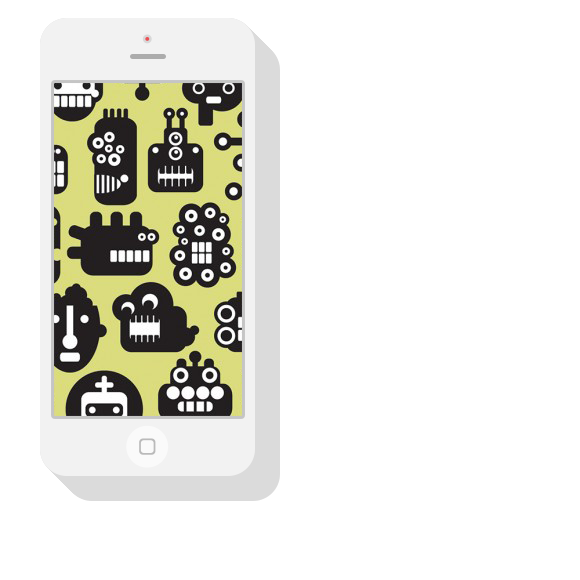
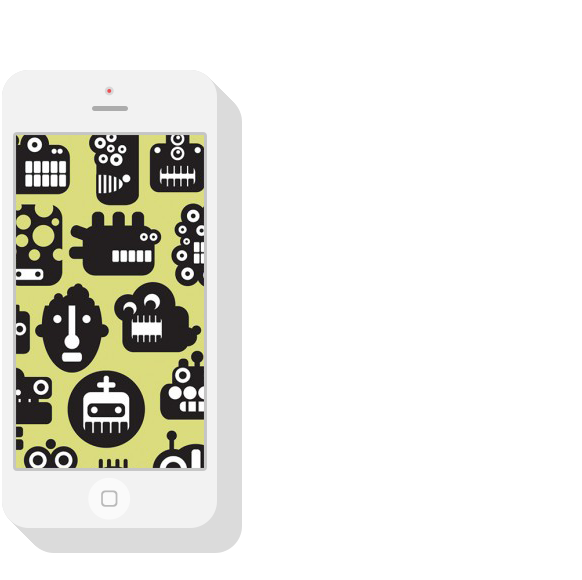
feat:add slider section

Changed region(s): [[0.0, 0.0621, 0.4966, 0.9621]]

diff --git a/index.html b/index.html
@@ -25,17 +25,15 @@
     </header>
     <section class="slider">
       <div class="wrapper">
-        <div class="phones">
-          <div class="phones-vertical">
-            <img src="./assets/images/iPhone Vertical.png" alt="" />
-          </div>
-          <div class="phones-horizontal">
-            <img src="./assets/images/iPhone Horizontal.png" alt="" />
-          </div>
-        </div>
         <div class="slider__button-left">
           <img src="./assets/images/arrow_left.png" alt="" />
         </div>
+          <div class="phone-vertical">
+            <img src="./assets/images/iPhone Vertical.png" alt="" />
+          </div>
+          <div class="phone-horizontal">
+            <img src="./assets/images/iPhone Horizontal.png" alt="" />
+          </div>
         <div class="slider__button-right">
           <img src="./assets/images/arrow_right.png" alt="" />
         </div>

diff --git a/style.css b/style.css
@@ -79,3 +79,40 @@
   text-transform: uppercase;
   height: 100%;
 }
+
+.slider {
+  background-color: #f06c64;
+  border-bottom: 6px solid #ea676b;
+  height: 595px;
+}
+
+.wrapper {
+  display: flex;
+  align-items: center;
+  justify-content: space-between;
+}
+.phone-vertical {
+  position: relative;
+  left: 55px;
+  bottom: 20px;
+}
+
+.phone-horizontal {
+  position: relative;
+  top: 5px;
+  right: 210px;
+}
+
+.slider__button-left {
+  position: relative;
+  top: 4px;
+  left: 1px;
+  cursor: pointer;
+}
+
+.slider__button-right {
+  position: relative;
+  right: 155px;
+  top: 5px;
+  cursor: pointer;
+}
